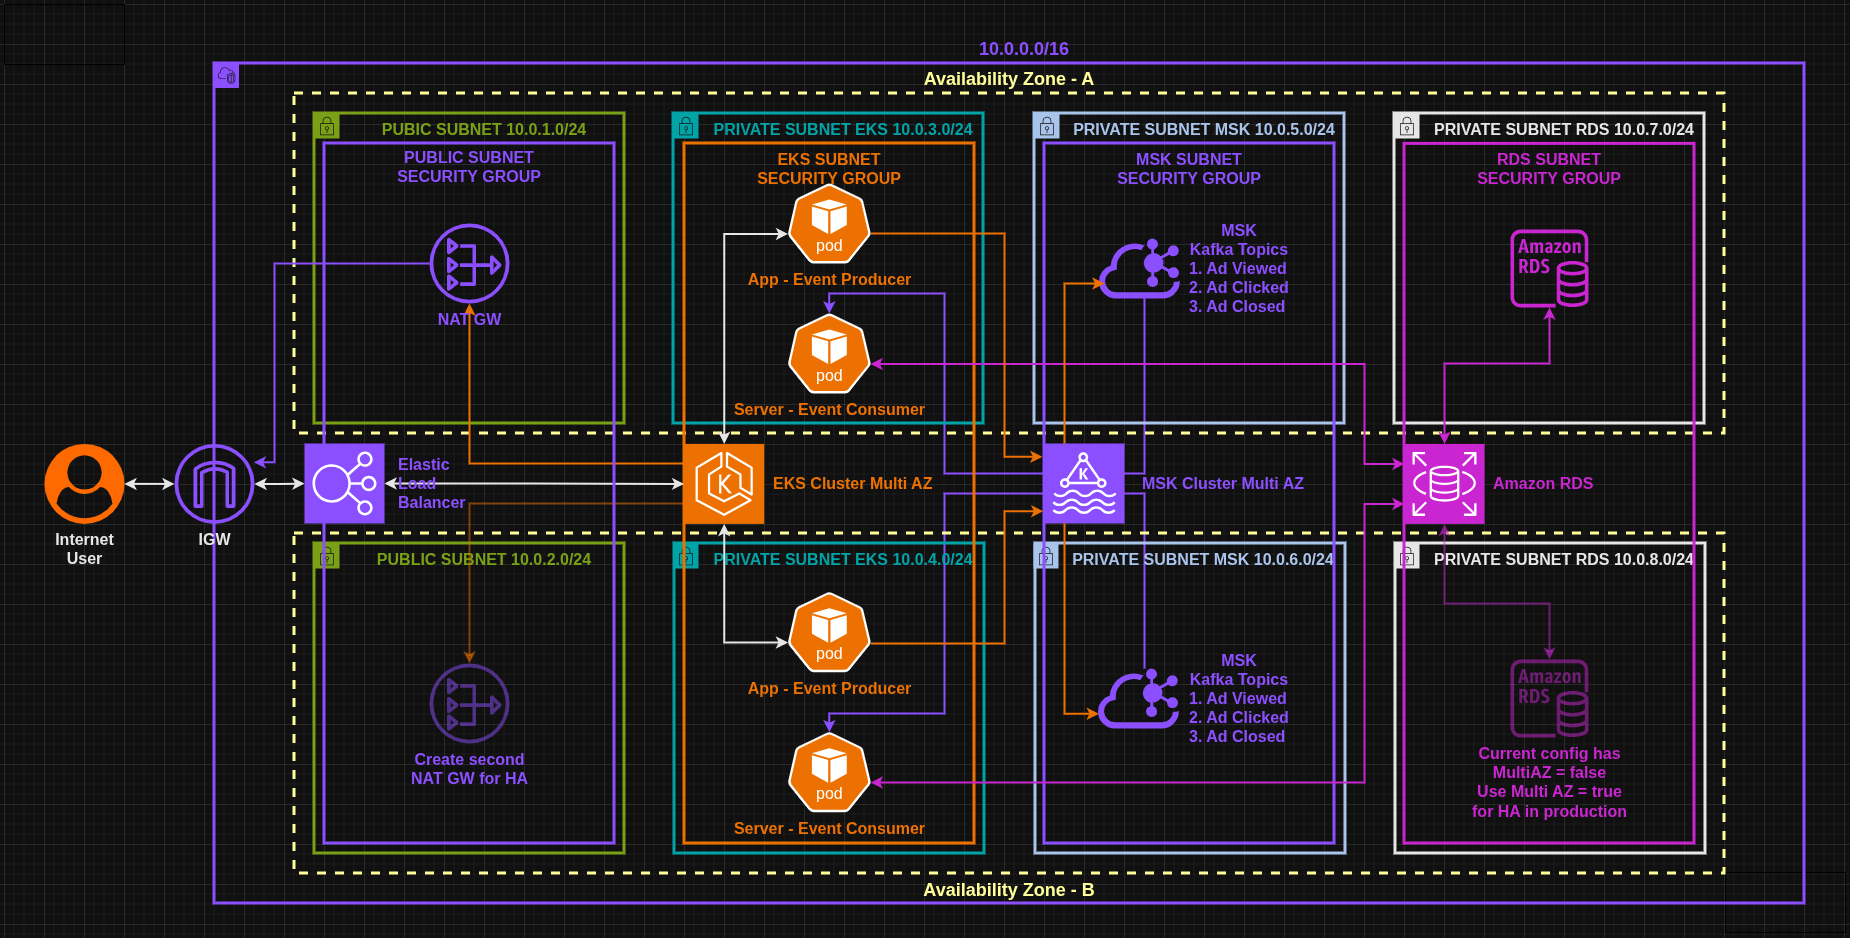
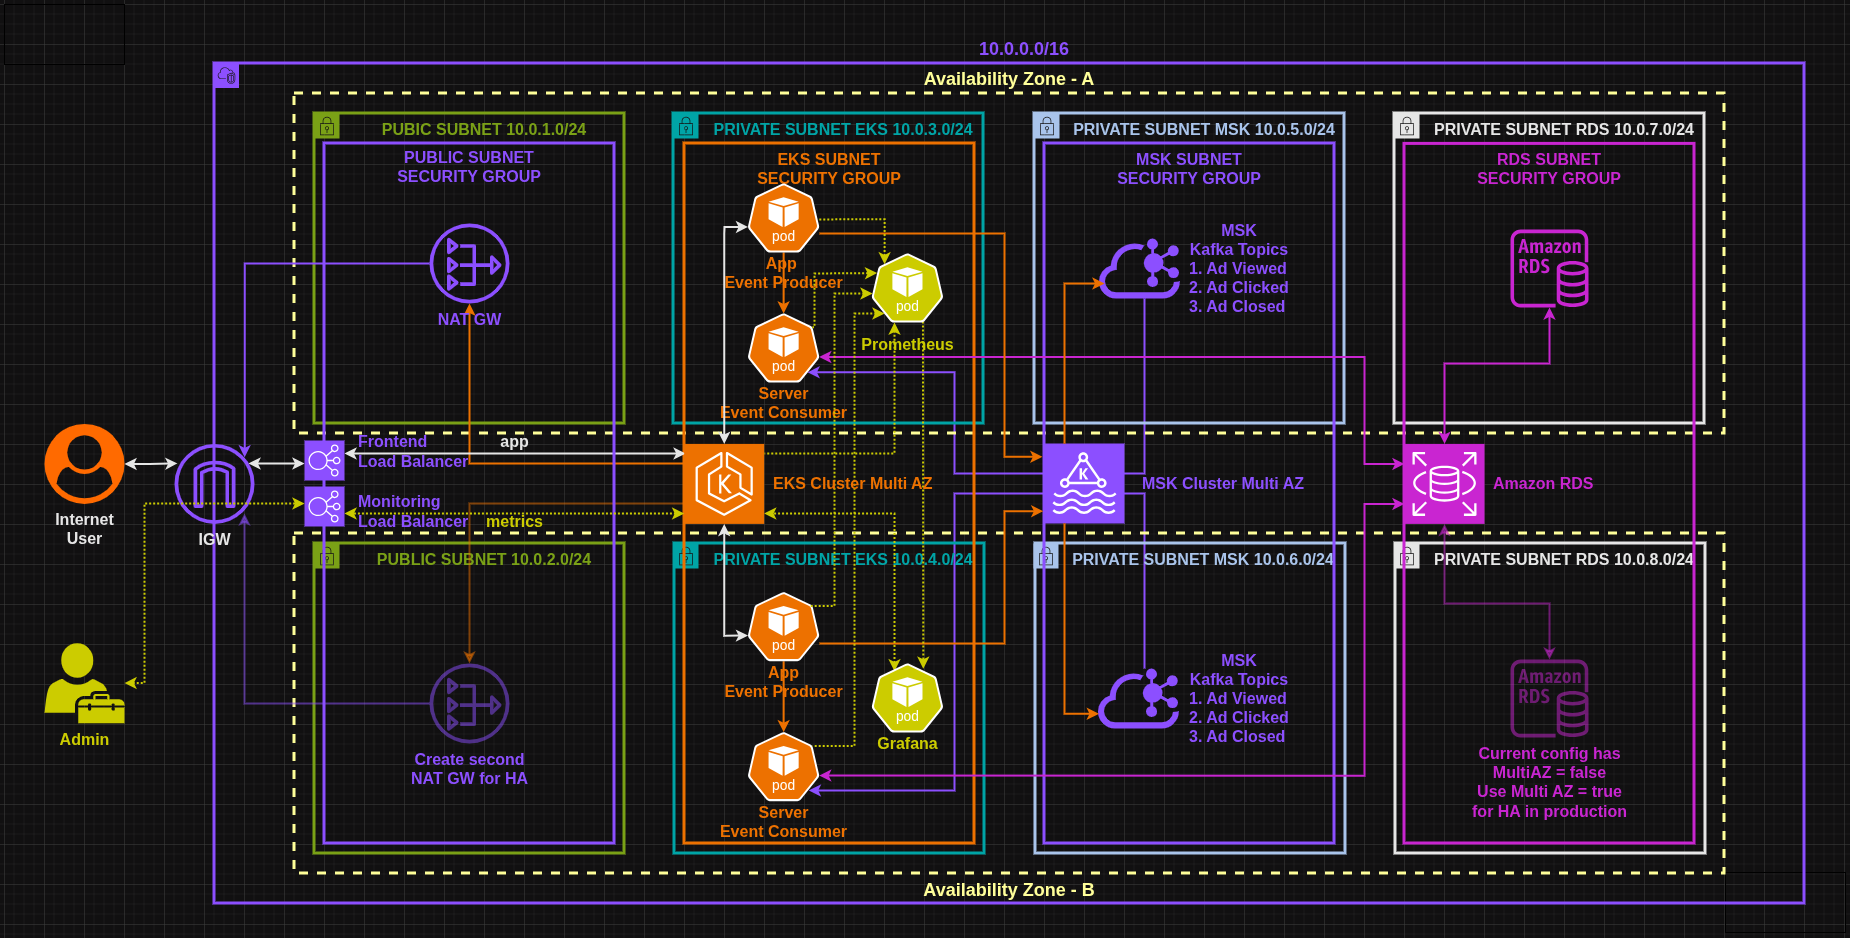
docs (eks msk): update images and docs for prometheus, grafana
update the images to include prometheus and grafana pods.
update readme files.

diff --git a/eks-msk-rds-app/README.md b/eks-msk-rds-app/README.md
@@ -1,8 +1,8 @@
 # EKS MSK RDS App - Cloud-Native Three-Tier Architecture
 
-This project demonstrates a production-ready **three-tier Kubernetes application** deployed on AWS using **Amazon EKS**, **Amazon MSK (Managed Kafka)**, and **Amazon RDS**. It showcases modern cloud-native architecture patterns with event-driven communication, infrastructure as code, and automated CI/CD deployment.
+This project demonstrates a production-ready **three-tier Kubernetes application** deployed on AWS using **Amazon EKS**, **Amazon MSK (Managed Kafka)**, and **Amazon RDS**. It showcases modern cloud-native architecture patterns with event-driven communication, infrastructure as code, automated CI/CD deployment, and comprehensive monitoring.
 
-**Application Source Code**: [react-springboot-kafka-apps](https://github.com/manvinderjit/react-springboot-kafka-apps)
+**Complete Solution**: This repository contains both the infrastructure code (Terraform) and the application source code (Java Spring Boot), providing a complete end-to-end implementation.
 
 ---
 
@@ -41,7 +41,24 @@ _Integration Diagram showing how the tiers are integrated and communicate._
 - **Data Persistence**: Events stored in MySQL database
 - **Live Updates**: Real-time UI updates through event streaming
 
+### Monitoring Stack
+
+#### Prometheus Monitoring
+
+![Prometheus Status](./images/6-prometheus-status.png)
+_Prometheus monitoring interface showing system status and targets_
+
+![Prometheus Query](./images/7-prometheus-query.png)
+_Prometheus query interface for metrics exploration and analysis_
+
+#### Grafana Dashboard
+
+![Grafana Dashboard](./images/8-grafana-dashboard.png)
+_Grafana visualization dashboard for comprehensive monitoring and alerting_
+
+
 ---
+
 
 ## Technology Stack
 
@@ -52,9 +69,10 @@ _Integration Diagram showing how the tiers are integrated and communicate._
 | **Load Balancing**          | Classic Load Balancer (ELB) | Cross-zone enabled          | External traffic distribution       |
 | **Message Streaming**       | Amazon MSK                  | Kafka 3.8.x                 | Event-driven communication          |
 | **Database**                | Amazon RDS                  | MySQL 8.0.42                | Persistent data storage             |
-| **Frontend Application**    | ThymeLeaf + Spring Boot     | Java-based                  | Server-side rendered web UI         |
-| **Backend API**             | Spring Boot + Kafka         | REST + Event streaming      | Business logic & data processing    |
+| **Frontend Application**    | ThymeLeaf + Spring Boot     | Java 17, Maven 3.x         | Server-side rendered web UI         |
+| **Backend API**             | Spring Boot + Kafka         | Java 17, Spring Boot 3.8 | Business logic & data processing    |
 | **Container Images**        | Docker                      | manvinderjit/*:v3           | Application containerization        |
+| **Monitoring Stack**        | Prometheus + Grafana        | Prometheus v2.48.0          | Metrics collection & visualization  |
 | **CI/CD Pipeline**          | GitHub Actions              | OIDC authentication         | Automated deployment & management   |
 | **State Management**        | Terraform S3 Backend        | Encrypted, locked           | Infrastructure state persistence    |
 | **Security**                | AWS IAM + Security Groups   | Least privilege             | Access control & network security   |
@@ -67,11 +85,14 @@ _Integration Diagram showing how the tiers are integrated and communicate._
 eks-msk-rds-app/
 │
 ├── images/                          # Architecture diagrams & screenshots
-│   ├── 1-3-tier-eks-msk-rds-app-infra.png
-│   ├── 2-ads-index.png
-│   ├── 3-analytics-dash-full.png
-│   ├── 3-tier-eks-msk-rds-app-traffic-flow.png
-│   └── 4-raw-event-logs.png
+│   ├── 1-3-tier-eks-msk-rds-app-infra.png     # Infrastructure architecture
+│   ├── 2-ads-index.png                        # Application main interface
+│   ├── 3-tier-eks-msk-rds-app-traffic-flow.png # Integration flow diagram
+│   ├── 4-analytics-dash-full.png              # Analytics dashboard
+│   ├── 5-raw-event-logs.png                   # Event logs display
+│   ├── 6-prometheus-status.png                # Prometheus monitoring
+│   ├── 7-prometheus-query.png                 # Prometheus queries
+│   └── 8-grafana-dashboard.png                # Grafana visualization
 │
 ├── modules/                         # Terraform modules
 │   ├── vpc/                        # VPC with multi-tier networking
@@ -98,11 +119,33 @@ eks-msk-rds-app/
 │   │   ├── 2-svc-cluster-backend.yaml     # Backend ClusterIP service
 │   │   ├── configmap.yaml                 # Backend configuration
 │   │   └── secrets.yaml                   # Backend database secrets
-│   └── frontend/                   # ThymeLeaf frontend service
-│       ├── 1-deployment-frontend.yaml     # Frontend deployment
-│       ├── 2-2-svc-cluster-frontend.yaml  # Frontend ClusterIP service
-│       ├── 3-svc-loadbalancer-frontend.yaml # Classic Load Balancer
-│       └── configmap.yaml                 # Frontend configuration
+│   ├── frontend/                   # ThymeLeaf frontend service
+│   │   ├── 1-deployment-frontend.yaml     # Frontend deployment
+│   │   ├── 2-svc-cluster-frontend.yaml    # Frontend ClusterIP service
+│   │   ├── 3-svc-loadbalancer-frontend.yaml # Classic Load Balancer
+│   │   └── configmap.yaml                 # Frontend configuration
+│   └── monitoring/                 # Prometheus & Grafana monitoring
+│       ├── namespace.yaml                 # Monitoring namespace
+│       ├── prometheus-config.yaml         # Prometheus configuration
+│       ├── prometheus-deployment.yaml     # Prometheus deployment
+│       ├── prometheus-rbac.yaml           # Prometheus RBAC
+│       ├── prometheus-loadbalancer.yaml   # Prometheus LoadBalancer
+│       ├── grafana-config.yaml            # Grafana configuration
+│       └── grafana-deployment.yaml        # Grafana deployment
+│
+├── backend/                        # Spring Boot backend application
+│   ├── src/main/java/              # Java source code
+│   ├── src/test/java/              # Unit tests
+│   ├── pom.xml                     # Maven dependencies (Spring Boot 3.8)
+│   ├── target/                     # Compiled artifacts
+│   └── mvnw                        # Maven wrapper
+│
+├── frontend/                       # Spring Boot frontend application
+│   ├── src/main/java/              # Java source code
+│   ├── src/test/java/              # Unit tests
+│   ├── pom.xml                     # Maven dependencies (Spring Boot 3.8)
+│   ├── target/                     # Compiled artifacts
+│   └── mvnw                        # Maven wrapper
 │
 ├── main.tf                         # Root Terraform configuration
 ├── provider.tf                     # AWS provider & version constraints
@@ -115,6 +158,78 @@ eks-msk-rds-app/
 .github/workflows/
 ├── eks-msk-rds-app.yaml           # Main deployment workflow
 └── eks-msk-rds-app-destroy.yaml   # Infrastructure destruction workflow
+```
+
+---
+
+## Application Components
+
+### Java Spring Boot Applications
+
+Both frontend and backend are built with **Spring Boot 3.8** and **Java 17**, providing modern enterprise-grade application development:
+
+**Backend Application** (`backend/`):
+- **Framework**: Spring Boot 3.8 with Spring Kafka integration
+- **Build Tool**: Maven 3.x with wrapper (`mvnw`)
+- **Runtime**: Java 17 (LTS)
+- **Dependencies**: Spring Web, Spring Data JPA, Spring Kafka, MySQL Connector
+- **Functionality**: REST API endpoints, Kafka message consumption/production, database operations
+- **Container Image**: `manvinderjit/kafka-project-backend:v3`
+- **Health Endpoint**: `/api/events` for readiness/liveness probes
+
+**Frontend Application** (`frontend/`):
+- **Framework**: Spring Boot 3.8 with ThymeLeaf templating
+- **Build Tool**: Maven 3.x with wrapper (`mvnw`)
+- **Runtime**: Java 17 (LTS)
+- **Dependencies**: Spring Web, ThymeLeaf, Spring Kafka
+- **Functionality**: Server-side rendered web UI, event creation forms, real-time updates
+- **Container Image**: `manvinderjit/kafka-project-frontend:v3`
+- **Health Endpoint**: `/` for readiness/liveness probes
+
+**Build Process:**
+```bash
+# Backend build (from repository root)
+cd eks-msk-rds-app/backend
+./mvnw clean package -DskipTests
+docker build -t manvinderjit/kafka-project-backend:v3 .
+
+# Frontend build (from repository root)
+cd eks-msk-rds-app/frontend
+./mvnw clean package -DskipTests
+docker build -t manvinderjit/kafka-project-frontend:v3 .
+
+# Or build both applications
+cd eks-msk-rds-app
+# Backend
+(cd backend && ./mvnw clean package -DskipTests)
+# Frontend  
+(cd frontend && ./mvnw clean package -DskipTests)
+```
+
+**Application Flow:**
+1. User interacts with ThymeLeaf frontend web interface
+2. Frontend publishes events to MSK Kafka topics
+3. Backend consumes Kafka messages and processes business logic
+4. Backend stores processed data in MySQL RDS database
+5. Real-time updates flow back through Kafka to frontend
+6. Prometheus scrapes metrics from both applications for monitoring
+
+**Local Development:**
+```bash
+# Prerequisites: Java 17, Maven 3.x
+cd eks-msk-rds-app
+
+# Run backend locally (requires local Kafka and MySQL)
+cd backend
+./mvnw spring-boot:run
+
+# Run frontend locally (in separate terminal)
+cd frontend
+./mvnw spring-boot:run
+
+# Access local application
+# Frontend: http://localhost:8081
+# Backend API: http://localhost:8080/api/events
 ```
 
 ---
@@ -304,7 +419,7 @@ kubectl apply -f k8-manifests/backend/2-svc-cluster-backend.yaml
 # Deploy frontend with environment variable substitution
 envsubst < k8-manifests/frontend/configmap.yaml | kubectl apply -f -
 kubectl apply -f k8-manifests/frontend/1-deployment-frontend.yaml
-kubectl apply -f k8-manifests/frontend/2-2-svc-cluster-frontend.yaml
+kubectl apply -f k8-manifests/frontend/2-svc-cluster-frontend.yaml
 kubectl apply -f k8-manifests/frontend/3-svc-loadbalancer-frontend.yaml
 
 # Check deployment status
@@ -313,12 +428,30 @@ kubectl get services
 kubectl get deployments
 ```
 
+**Deploy Monitoring Stack (Optional):**
+
+```bash
+# Deploy Prometheus and Grafana for monitoring
+kubectl apply -f k8-manifests/monitoring/namespace.yaml
+kubectl apply -f k8-manifests/monitoring/prometheus-rbac.yaml
+kubectl apply -f k8-manifests/monitoring/prometheus-config.yaml
+kubectl apply -f k8-manifests/monitoring/prometheus-deployment.yaml
+kubectl apply -f k8-manifests/monitoring/prometheus-loadbalancer.yaml
+kubectl apply -f k8-manifests/monitoring/grafana-config.yaml
+kubectl apply -f k8-manifests/monitoring/grafana-deployment.yaml
+
+# Check monitoring stack
+kubectl get pods -n monitoring
+kubectl get services -n monitoring
+```
+
 **Direct Deployment (requires manual ConfigMap editing):**
 
 ```bash
 # Deploy all manifests (requires pre-configured ConfigMaps)
 kubectl apply -f k8-manifests/backend/
 kubectl apply -f k8-manifests/frontend/
+kubectl apply -f k8-manifests/monitoring/  # Optional monitoring
 ```
 
 ### Step 5: Access Application
@@ -342,6 +475,8 @@ kubectl logs -l app=kafka-project-backend --tail=50
 **Application Access Points:**
 - **Frontend Web UI**: `http://<ELB-HOSTNAME>` (port 80)
 - **Backend API**: `http://service-kafka-project-backend:8080/api/events` (internal only)
+- **Prometheus Metrics**: `http://<PROMETHEUS-ELB>:9090` (if monitoring deployed)
+- **Grafana Dashboard**: `http://<GRAFANA-ELB>:3000` (if monitoring deployed)
 - **Health Checks**: 
   - Frontend: `http://<ELB-HOSTNAME>/` 
   - Backend: `http://service-kafka-project-backend:8080/api/events`
@@ -354,8 +489,16 @@ Once deployed, the application provides:
 2. **Real-time Processing**: Events are processed through Kafka and stored in MySQL
 3. **Live Updates**: Frontend displays real-time updates as events are processed
 4. **API Access**: Backend exposes REST endpoints for event management
+5. **Monitoring**: Prometheus collects metrics, Grafana provides visualization dashboards
+6. **Observability**: Application and infrastructure metrics for performance monitoring
 
-**Source Code Repository**: [react-springboot-kafka-apps](https://github.com/manvinderjit/react-springboot-kafka-apps)
+**Application Architecture:**
+- **Frontend**: Spring Boot 3.8 with ThymeLeaf templates (Java 17) - source code in `frontend/`
+- **Backend**: Spring Boot 3.8 with Kafka integration (Java 17) - source code in `backend/`
+- **Build System**: Maven with wrapper scripts for consistent builds
+- **Container Runtime**: Kubernetes deployments with resource limits and health checks
+
+**Complete Implementation**: All application source code is included in this repository, providing a complete end-to-end solution from infrastructure to application deployment.
 
 ## Application Screenshots
 
@@ -366,12 +509,12 @@ _Main application interface for event management and real-time data visualizatio
 
 ### Analytics Dashboard
 
-![Analytics Dashboard](./images/3-analytics-dash-full.png)
+![Analytics Dashboard](./images/4-analytics-dash-full.png)
 _Real-time analytics dashboard showing event processing and data insights_
 
 ### Event Logs
 
-![Raw Event Logs](./images/4-raw-event-logs.png)
+![Raw Event Logs](./images/5-raw-event-logs.png)
 _Raw event logs displaying Kafka message processing and database interactions_
 
 ---
@@ -867,9 +1010,10 @@ aws dynamodb delete-item --table-name terraform-locks --key '{"LockID":{"S":"YOU
 - EKS Cluster (~$73/month)
 - RDS Instance (~$13/month for db.t4g.micro)
 - MSK Cluster (~$90/month for 2 kafka.t3.small brokers)
-- Classic Load Balancer (~$18/month)
+- Classic Load Balancer (~$18/month + additional for monitoring if deployed)
+- EKS Worker Nodes (~$30/month for 2 t3.small instances)
 
-**Total Estimated Monthly Cost: ~$240**
+**Total Estimated Monthly Cost: ~$270** (without monitoring) / **~$290** (with monitoring)
 
 Always ensure complete cleanup to avoid unexpected charges!
 
@@ -887,9 +1031,10 @@ Always ensure complete cleanup to avoid unexpected charges!
 ### Application Architecture
 - **Cloud-Native**: Kubernetes-native deployment with container orchestration
 - **Event-Driven**: Real-time Kafka messaging between frontend and backend
-- **Microservices**: Decoupled frontend and backend services
+- **Microservices**: Decoupled frontend and backend services with Java Spring Boot
 - **Load Balancing**: Classic ELB with cross-zone load balancing
 - **Health Monitoring**: Comprehensive readiness and liveness probes
+- **Observability**: Prometheus metrics collection and Grafana visualization
 
 ### Operational Excellence
 -  **GitOps Workflow**: Automated CI/CD with GitHub Actions
@@ -908,6 +1053,9 @@ Always ensure complete cleanup to avoid unexpected charges!
 ###  Monitoring & Observability
 -  **Health Checks**: Application-level health endpoints
 - **Resource Monitoring**: Kubernetes resource requests/limits
+- **Metrics Collection**: Prometheus v2.48.0 for comprehensive metrics gathering
+- **Visualization**: Grafana dashboards for real-time monitoring and alerting
+- **Application Metrics**: Spring Boot Actuator endpoints for application insights
 -  **Infrastructure Outputs**: Comprehensive Terraform outputs for debugging
 -  **Service Discovery**: Kubernetes DNS for inter-service communication
 -  **Load Balancer Metrics**: ELB health check monitoring
@@ -916,11 +1064,14 @@ Always ensure complete cleanup to avoid unexpected charges!
 
 ##  Additional Resources
 
-- **Application Source**: [react-springboot-kafka-apps](https://github.com/manvinderjit/react-springboot-kafka-apps)
+- **Application Development**: Source code included in `backend/` and `frontend/` directories
+- **Original Reference**: Based on [react-springboot-kafka-apps](https://github.com/manvinderjit/react-springboot-kafka-apps)
 - [Amazon EKS Documentation](https://docs.aws.amazon.com/eks/)
 - [Amazon MSK Documentation](https://docs.aws.amazon.com/msk/)
 - [Kubernetes Documentation](https://kubernetes.io/docs/)
 - [Spring Boot Kafka Integration](https://spring.io/projects/spring-kafka)
+- [Spring Boot Documentation](https://spring.io/projects/spring-boot)
+- [Maven Documentation](https://maven.apache.org/guides/)
 
 ---
 

diff --git a/README.md b/README.md
@@ -40,25 +40,31 @@ It provisions a **React-based frontend**, a **Java Spring Boot backend**, and a 
 
 ## [2. EKS MSK RDS App](eks-msk-rds-app/README.md)
 
-### **Cloud-Native Three-Tier Architecture (EKS + MSK + RDS + GitHub Actions)**
+### **Cloud-Native Three-Tier Architecture (EKS + MSK + RDS + Monitoring + GitHub Actions)**
 
 #### **Summary:**
 
 This project demonstrates a **production-ready, event-driven three-tier application** deployed on AWS using **Amazon EKS**, **Amazon MSK (Managed Kafka)**, and **Amazon RDS**. 
 
-It showcases modern cloud-native architecture patterns with **real-time event streaming**, **modular Terraform infrastructure**, **automated CI/CD pipelines**, and **comprehensive operational excellence**.
+It showcases modern cloud-native architecture patterns with **real-time event streaming**, **comprehensive monitoring stack**, **modular Terraform infrastructure**, **automated CI/CD pipelines**, and **complete operational excellence**.
 
 ![Infrastructure Architecture Diagram](./eks-msk-rds-app/images/1-3-tier-eks-msk-rds-app-infra.png)
 
 ![Integration Diagram](./eks-msk-rds-app/images/3-tier-eks-msk-rds-app-traffic-flow.png)
 
+### **Monitoring & Observability:**
 
+Complete monitoring stack with Prometheus metrics collection and Grafana visualization dashboards.
+
+![Prometheus Monitoring](./eks-msk-rds-app/images/6-prometheus-status.png)
+
+![Grafana Dashboard](./eks-msk-rds-app/images/8-grafana-dashboard.png)
 
 ### **Application Code:**
 
-The application frontend and backend are created in ThymeLeaf and Springboot.
+The application frontend and backend are created in Java Spring Boot with ThymeLeaf templating, **included in this repository**.
 
-**Application Source**: [Thymeleaf Springboot Kafka App](https://github.com/manvinderjit/react-springboot-kafka-apps)
+**Complete Solution**: All source code included in `backend/` and `frontend/` directories
 
 ### **Project Summary:**
 
@@ -69,15 +75,17 @@ The application frontend and backend are created in ThymeLeaf and Springboot.
 - **Multi-Tier Networking**: 8 subnets across 2 AZs (public, private EKS, private MSK, database) with NAT gateway and security group isolation
 - **Event Streaming**: MSK Kafka 3.8.x cluster (2 brokers) for real-time message processing between ThymeLeaf frontend and Spring Boot backend
 - **Database**: MySQL 8.0.42 RDS (db.t4g.micro) in isolated database subnets with no public access
-- **Application**: Containerized Java ThymeLeaf frontend and Spring Boot backend with health checks, resource limits, and high availability (2 replicas each)
+- **Application Stack**: Java Spring Boot 3.5.5 applications (Java 17) with ThymeLeaf frontend and REST API backend, containerized with health checks and high availability (2 replicas each)
+- **Monitoring Stack**: Prometheus v2.48.0 for metrics collection and Grafana for visualization dashboards with comprehensive observability
 - **Load Balancing**: Classic ELB with cross-zone load balancing, health checks, and external access
 - **CI/CD Pipelines**: Dual GitHub Actions workflows - automated deployment on push and manual destruction with safety confirmations
 - **Security**: OIDC authentication, least privilege IAM, network isolation, encrypted secrets, and comprehensive access controls
 
 **Key Features**: 
 - **Infrastructure Excellence**: Modular Terraform, multi-AZ deployment, cost-optimized instances, security-first design
-- **Operational Excellence**: GitOps workflows, configuration management, state management, resource monitoring
-- **Application Architecture**: Event-driven microservices, container orchestration, health monitoring, topology awareness
+- **Application Architecture**: Event-driven microservices, container orchestration, health monitoring, complete source code included
+- **Monitoring & Observability**: Prometheus metrics collection, Grafana visualization, application insights, infrastructure monitoring
+- **Operational Excellence**: GitOps workflows, configuration management, state management, comprehensive documentation
 - **Security & Compliance**: Network security, identity management, secrets management, encryption, access control
 
 ---
